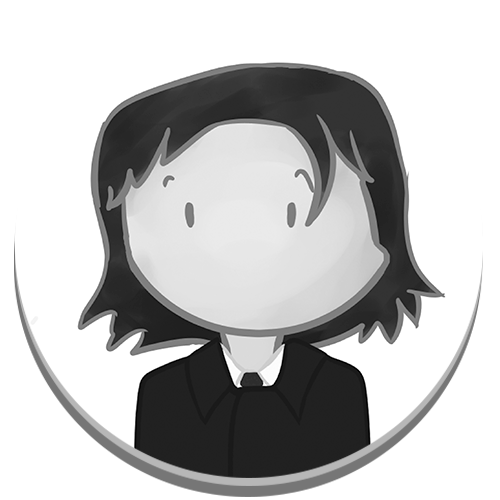
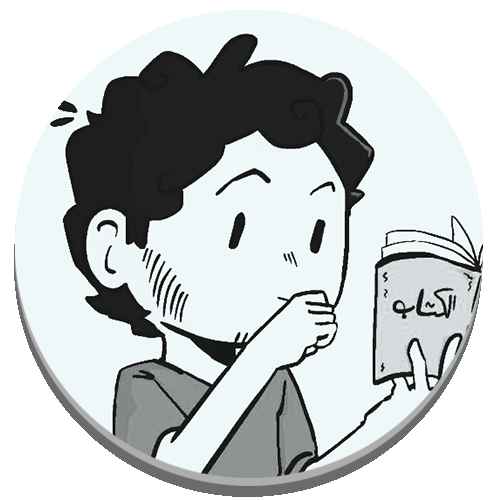
upadte

diff --git a/README.md b/README.md
@@ -47,3 +47,32 @@ See `_fields` inside `members.json`. Key gotchas:
 - `admin: true` → the leader (نواف), special access.
 - `dummy: true` → test profile (سراج), not a real member.
 - `discordId` is a **string** to preserve integer precision.
+- `telegramHandle` → `@username` (no `@`), for `t.me/<handle>` links. `null` if the member has no Telegram username set.
+- `telegramName` → fallback Telegram **display name** to search by when `telegramHandle` is `null`. `null` if not applicable (e.g. the dummy profile).
+
+## Grabbing this into a site (agent prompt)
+
+To wire a new (or existing) site up to read this roster live, paste this to an agent working in that site's repo:
+
+```
+This site needs to consume the team roster from the MdwnhMembers repo instead of hardcoding member data.
+
+Source of truth: https://raw.githubusercontent.com/mdwnstudio/MdwnhMembers/main/members.json
+Avatars: https://raw.githubusercontent.com/mdwnstudio/MdwnhMembers/main/avatars/<slug>.png
+
+Fetch members.json at runtime (it's public, CORS-enabled via raw.githubusercontent.com — no auth/token needed).
+Read the top-level "_fields" object in the JSON for the meaning of every member field (name, dbKey, discordId,
+email, gender, admin, active, dummy, telegramHandle, telegramName, etc.) before mapping it into this site's
+data model — don't guess field semantics.
+
+Filter out members with "dummy": true (test profile) from any user-facing roster.
+Respect "active": false — hide inactive members from live rosters unless the feature explicitly needs
+historical/inactive members too.
+
+For each member's Telegram handle, use "telegramHandle" for a direct t.me/<handle> link/mention when present;
+when it's null, fall back to showing "telegramName" (a display name to search by) instead — do not fabricate
+a handle.
+
+Do not hardcode or duplicate member data in this repo going forward — always read it from members.json at
+runtime so edits to the roster propagate without a redeploy.
+```
